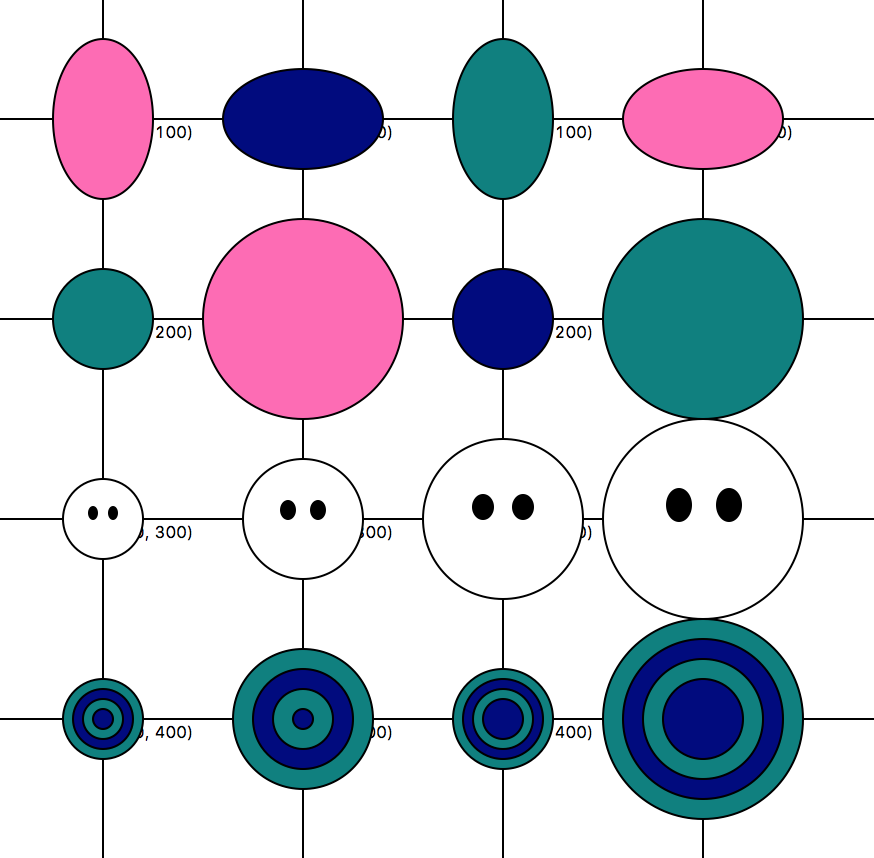
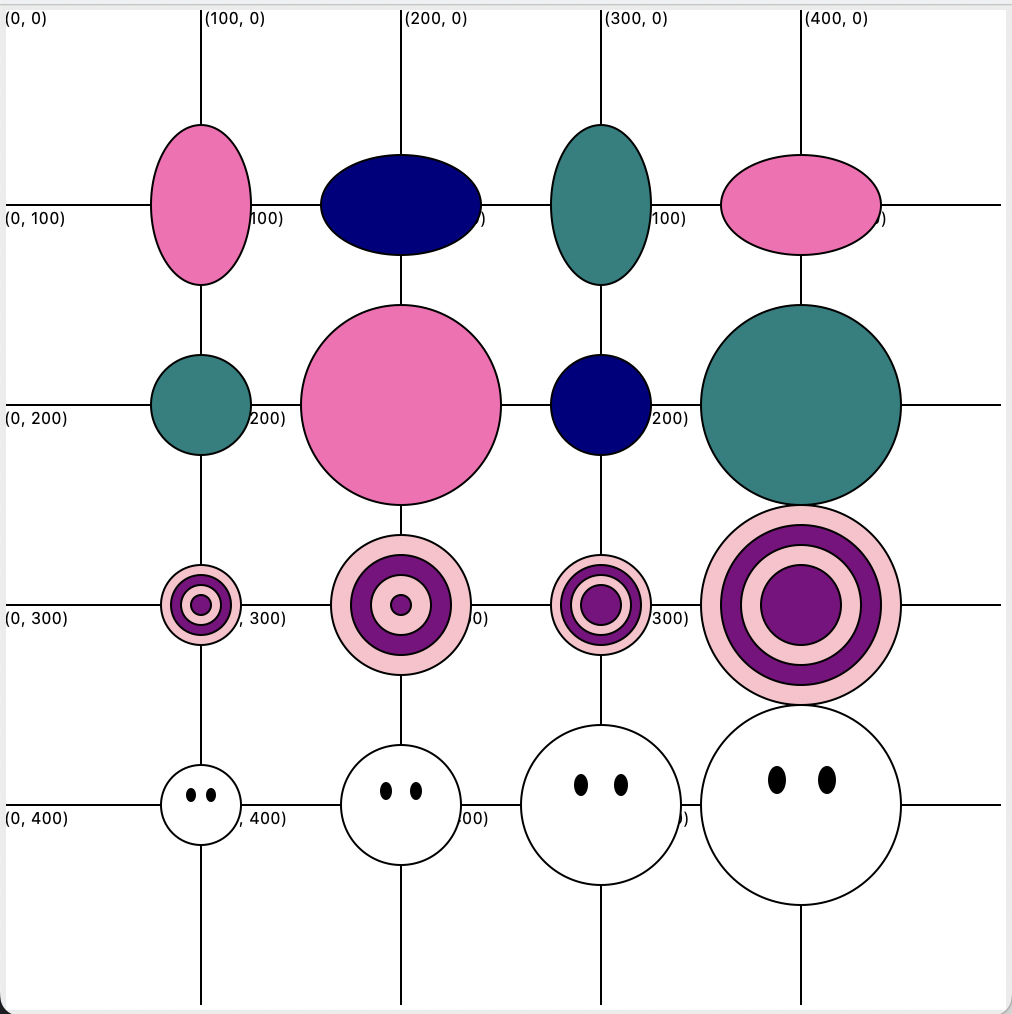
hw 2 fixes

diff --git a/pages/_assignments/hw2.md b/pages/_assignments/hw2.md
@@ -127,19 +127,20 @@ make_circle(canvas, (200, 200), 50)
 make_circle(canvas, (300, 200), 25, fill='navy')
 make_circle(canvas, (400, 200), 50, fill='teal')
 
-# Exercise 3: faces:
+# Exercise 3: bullseye:
 print('Exercise 3...')
-make_face(canvas, (100, 300), 40)
-make_face(canvas, (200, 300), 60)
-make_face(canvas, (300, 300), 80)
-make_face(canvas, (400, 300), 100)
+make_bullseye(canvas, (100, 300), 5, distance=5)
+make_bullseye(canvas, (200, 300), 5, distance=10)
+make_bullseye(canvas, (300, 300), 10, distance=5)
+make_bullseye(canvas, (400, 300), 20, distance=10)
 
-# Exercise 4: bullseye:
+# Exercise 4: face:
 print('Exercise 4...')
-make_bullseye(canvas, (100, 400), 5, distance=5)
-make_bullseye(canvas, (200, 400), 5, distance=10)
-make_bullseye(canvas, (300, 400), 10, distance=5)
-make_bullseye(canvas, (400, 400), 20, distance=10)
+make_face(canvas, (100, 400), 40)
+make_face(canvas, (200, 400), 60)
+make_face(canvas, (300, 400), 80)
+make_face(canvas, (400, 400), 100)
+
 ```
 
 ## 3. What to Submit
